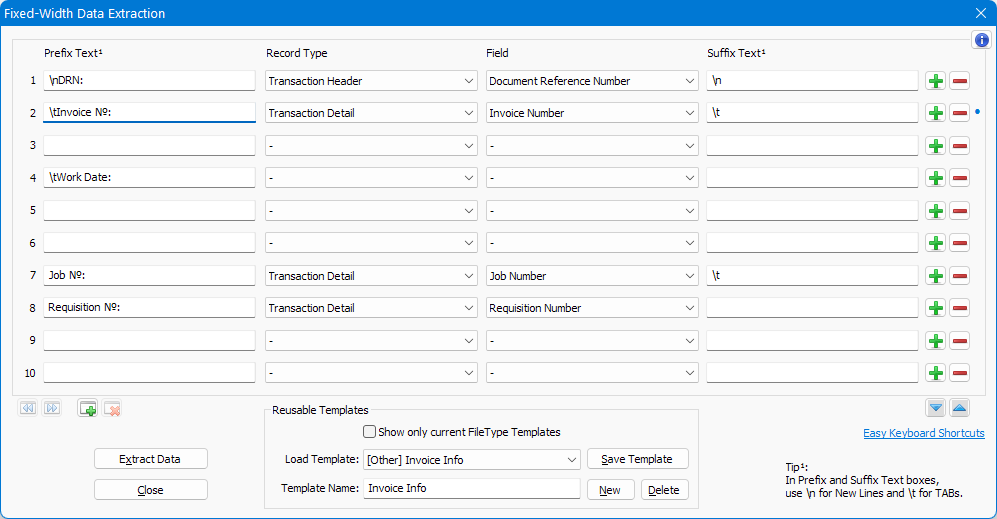
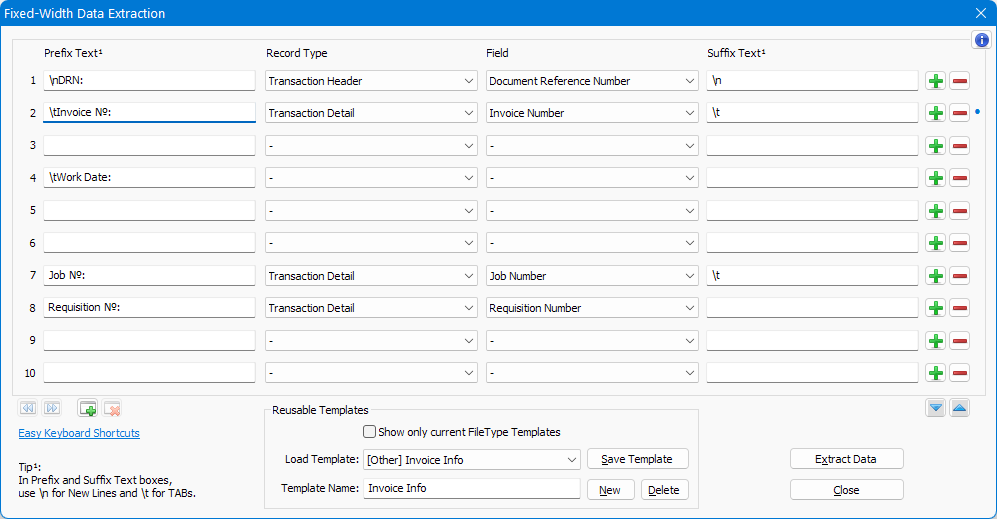
Minor changes to Data Extract Dialog
1. "Extract Data" & "Close" buttons shifted to the right.
2. Optimization by removing unnecessary, repeated clonings of the cRecInfoList vector object.

Changed region(s): [[0.0, 0.8324, 0.2177, 0.9865], [0.7773, 0.8324, 0.995, 0.9865]]

diff --git a/src/Dialogs/DataExtractDialog.cpp b/src/Dialogs/DataExtractDialog.cpp
@@ -369,15 +369,13 @@ void DataExtractDialog::localize() {
 }
 
 void DataExtractDialog::initRecTypeLists() {
-   const vector<RecordInfo> recInfoList{ cRecInfoList };
-
    for (int i{}; i < LINES_PER_PAGE; ++i) {
       // Load Record Type Dropdown lists
       HWND hRecList = GetDlgItem(_hSelf, IDC_DAT_EXT_ITEM_RECORD_01 + i);
       resetDropDown(hRecList);
 
-      for (size_t j{}; j < recInfoList.size(); ++j) {
-         SendMessage(hRecList, CB_ADDSTRING, NULL, (LPARAM)recInfoList[j].label.c_str());
+      for (size_t j{}; j < cRecInfoList.size(); ++j) {
+         SendMessage(hRecList, CB_ADDSTRING, NULL, (LPARAM)cRecInfoList[j].label.c_str());
       }
    }
 }
@@ -393,11 +391,10 @@ void DataExtractDialog::initLineItemFieldList(int line) {
    if (RTIndex == 0) return;
    --RTIndex;
 
-   const vector<RecordInfo> recInfoList{ cRecInfoList };
-   size_t FTCount{ recInfoList[RTIndex].fieldLabels.size() };
+   size_t FTCount{ cRecInfoList[RTIndex].fieldLabels.size() };
 
    for (size_t i{}; i < FTCount; ++i) {
-      SendMessage(hFTList, CB_ADDSTRING, NULL, (LPARAM)recInfoList[RTIndex].fieldLabels[i].c_str());
+      SendMessage(hFTList, CB_ADDSTRING, NULL, (LPARAM)cRecInfoList[RTIndex].fieldLabels[i].c_str());
    }
 }
 
@@ -583,7 +580,6 @@ size_t DataExtractDialog::getValidLineItems(vector<LineItemInfo>& validLIs, bool
 }
 
 void DataExtractDialog::extractData() {
-   const vector<RecordInfo> recInfoList{ cRecInfoList };
    vector<LineItemInfo> validLIs{};
 
    PSCIFUNC_T sciFunc;
@@ -601,7 +597,7 @@ void DataExtractDialog::extractData() {
    const size_t lineCount{ static_cast<size_t>(sciFunc(sciPtr, SCI_GETLINECOUNT, NULL, NULL)) };
    if (lineCount < 1) return;
 
-   const size_t regexedCount{ recInfoList.size() };
+   const size_t regexedCount{ cRecInfoList.size() };
 
    string lineTextCStr(FW_LINE_MAX_LENGTH, '\0');
    string recStartText{}, eolMarker{};
@@ -661,7 +657,7 @@ void DataExtractDialog::extractData() {
       size_t regexIndex{};
 
       while (regexIndex < regexedCount) {
-         if (regex_match(recStartText, recInfoList[regexIndex].regExpr)) break;
+         if (regex_match(recStartText, cRecInfoList[regexIndex].regExpr)) break;
          ++regexIndex;
       }
 
@@ -671,7 +667,7 @@ void DataExtractDialog::extractData() {
 
       for (size_t j{}; j < validLIs.size(); ++j) {
          const LineItemInfo& LI{ validLIs[j] };
-         const RecordInfo RI{ recInfoList[LI.recType] };
+         const RecordInfo RI{ cRecInfoList[LI.recType] };
          if (static_cast<int>(regexIndex) != LI.recType) continue;
 
          if (byteCols) {
@@ -755,8 +751,6 @@ void DataExtractDialog::loadTemplate() {
    liBuffer.clear();
    liBuffer.resize(static_cast<size_t>(getPageCount(loadCount)) * 10);
 
-   const vector<RecordInfo> recInfoList{ cRecInfoList };
-
    for (int i{}; i < loadCount; ++i) {
       LineItemInfo& LI{ liBuffer[i] };
 
@@ -768,11 +762,11 @@ void DataExtractDialog::loadTemplate() {
       LI.suffix = _configIO.getConfigWideChar(templateName, (numSuffix + "Suffix").c_str(), "", extractsConfigFile);
 
       LI.recType = _configIO.getConfigInt(templateName, (numSuffix + "Record").c_str(), 0, extractsConfigFile);
-      if (LI.recType > static_cast<int>(recInfoList.size())) LI.recType = -1;
+      if (LI.recType > static_cast<int>(cRecInfoList.size())) LI.recType = -1;
 
       if (LI.recType >= 0) {
          LI.fieldType = _configIO.getConfigInt(templateName, (numSuffix + "Field").c_str(), 0, extractsConfigFile);
-         if (LI.fieldType > static_cast<int>(recInfoList[LI.recType].fieldLabels.size())) LI.fieldType = -1;
+         if (LI.fieldType > static_cast<int>(cRecInfoList[LI.recType].fieldLabels.size())) LI.fieldType = -1;
       }
 
       LI.recType++;

diff --git a/src/Utils.cpp b/src/Utils.cpp
@@ -348,7 +348,6 @@ int Utils::scaleDPIY(int y) {
 
 int Utils::getTextPixelWidth(HWND hDlg, const wstring& text) {
    SIZE textSize{};
-
    HDC hDC{ GetDC(hDlg) };
 
    SelectObject(hDC, (HFONT)SendMessage(hDlg, WM_GETFONT, 0, 0));
